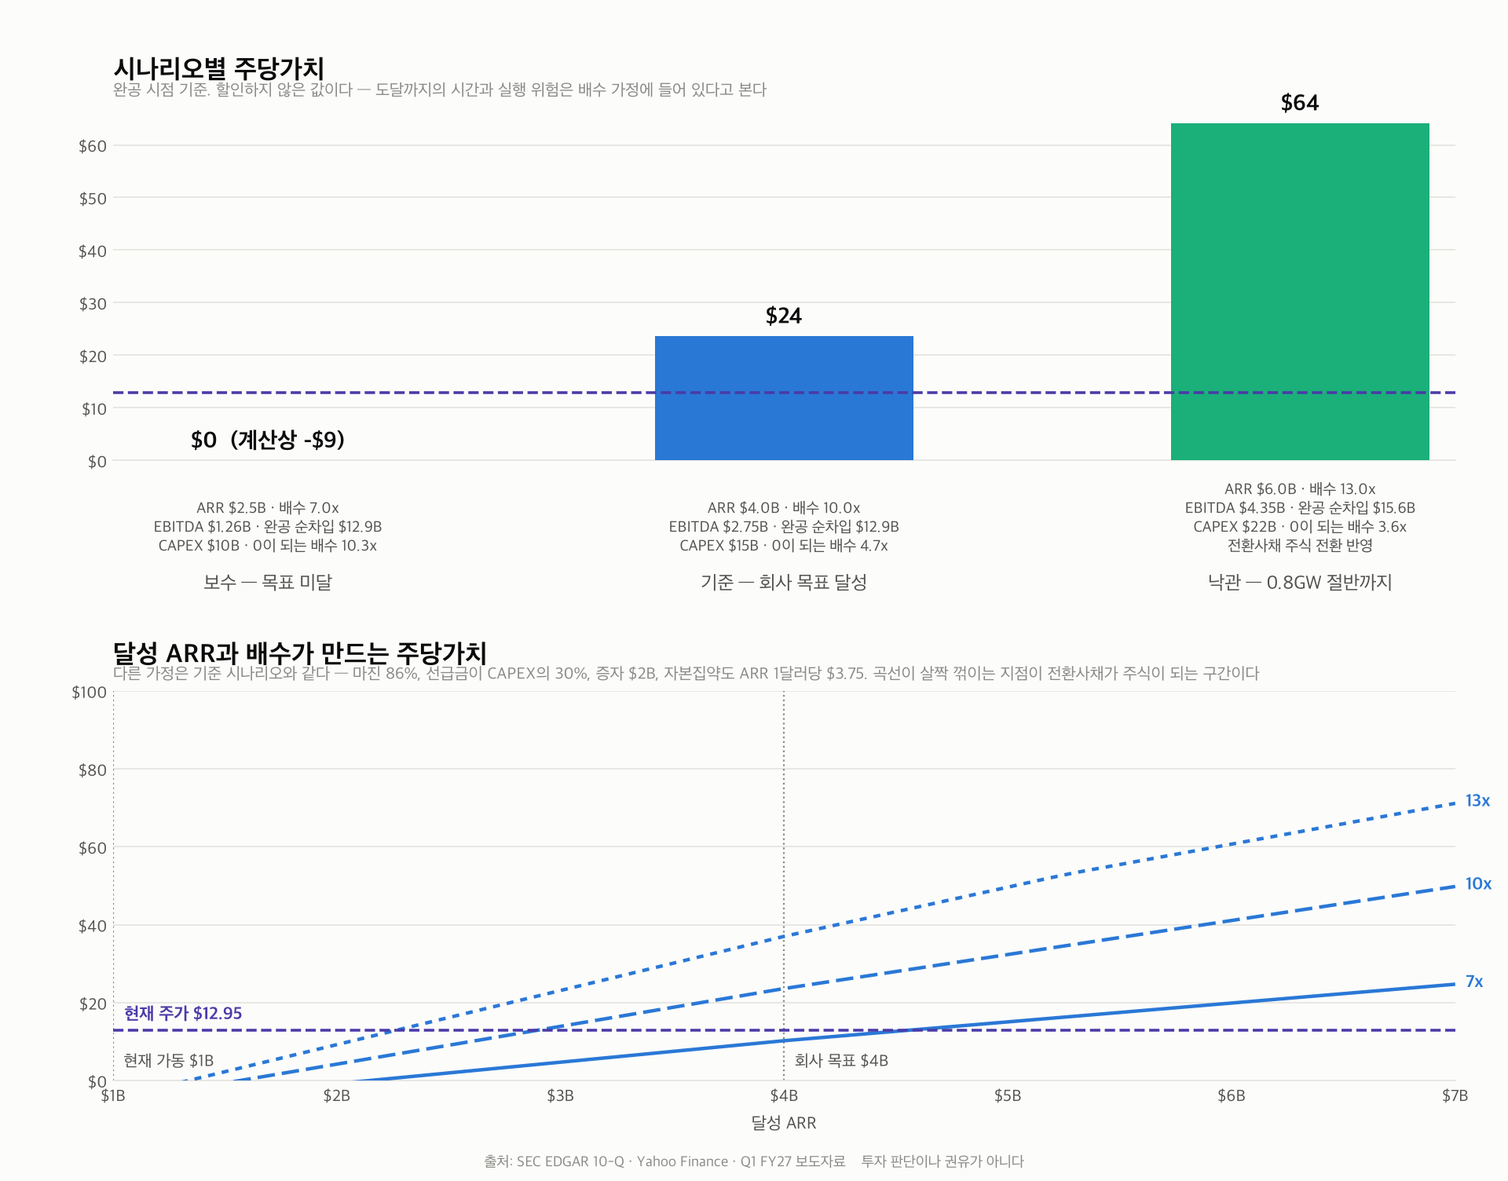
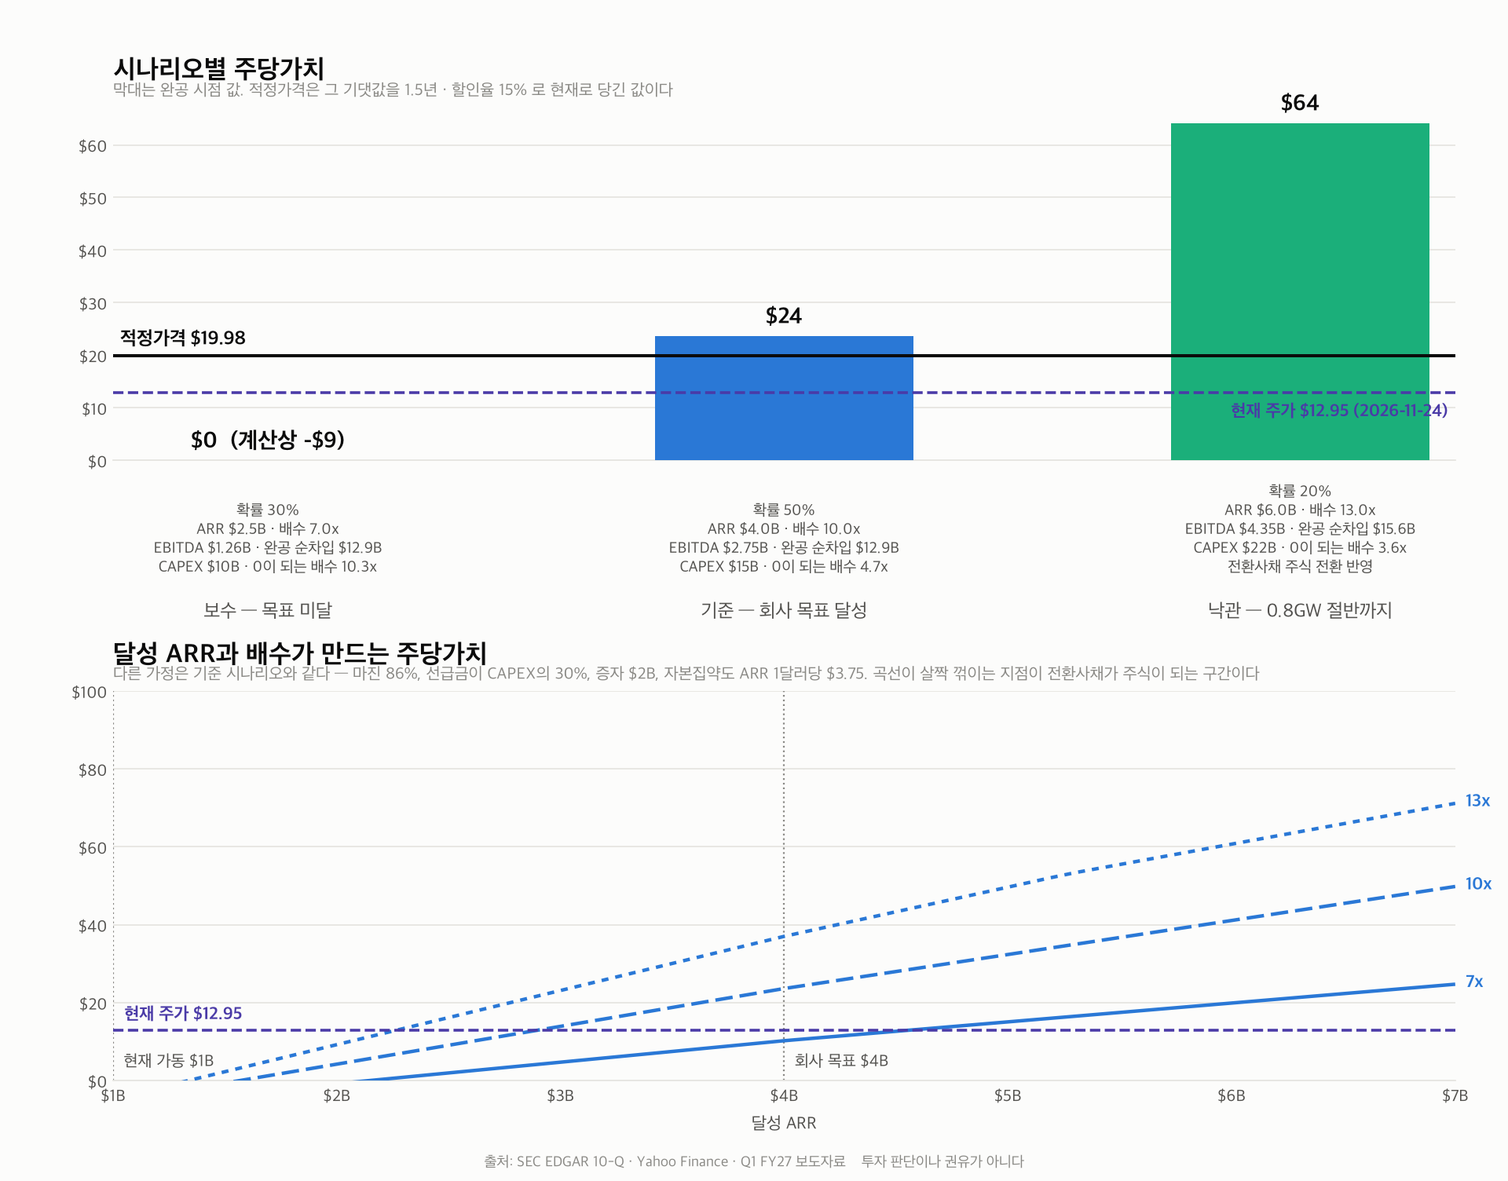
적정가격을 단일 숫자로 낸다 — 확률가중 기댓값의 현재가치
범위만 내놓으면 "그래서 얼마냐"에 답하지 못한다. 각 시나리오에 확률을 붙여
기댓값을 내고, 완공까지 1.5년을 할인율 15%로 당긴다.

  적정가격 $19.98 · 현재 주가 $12.95 (+54%)

확률은 공시에서 끌어낼 수 없는 가장 주관적인 입력이라, 현재 주가가 함의하는
'목표 미달' 확률(55%)을 항상 나란히 계산해 내 가정(30%)과 비교할 수 있게
했다. 두 숫자의 차이가 곧 괴리의 전부다.

diff --git a/docs/index.html b/docs/index.html
@@ -42,12 +42,12 @@
 <div class="wrap">
   <h1>IREN 매출 구조와 적정가격</h1>
   <p class="sub">비트코인 채굴에서 AI 데이터센터로 옮겨 가는 회사를, 공시된 숫자로만 뜯어본다.</p>
-  <p class="stamp">2026-11-25 11:50 UTC · 출처 SEC EDGAR · Yahoo Finance ·
+  <p class="stamp">2026-11-25 12:28 UTC · 출처 SEC EDGAR · Yahoo Finance ·
      <a href="https://github.com/gwonyongjin94-ui/IREN-Revenue-structure">저장소</a></p>
 
-  <div class="cards"><div class="card"><div class="k">주가</div><div class="v">$12.95</div><div class="n">2026-11-24</div></div><div class="card"><div class="k">시가총액</div><div class="v">$5.50B</div><div class="n">424M주</div></div><div class="card"><div class="k">EV</div><div class="v">$9.9B</div><div class="n">순차입 $4.4B 포함</div></div><div class="card"><div class="k">FY27Q1 매출</div><div class="v">$228M</div><div class="n">AI 클라우드 88%</div></div><div class="card"><div class="k">수주잔고</div><div class="v">$20.3B</div><div class="n">2026-09-30</div></div><div class="card"><div class="k">가동 ARR</div><div class="v">약 $1B</div><div class="n">목표 $4B</div></div><div class="card"><div class="k">EV / 목표 ARR</div><div class="v">2.5x</div><div class="n">목표 달성을 전제한 값</div></div><div class="card"><div class="k">남은 CAPEX</div><div class="v">$15B</div><div class="n">미확보 $6B</div></div><div class="card"><div class="k">주당가치 범위</div><div class="v">$0 ~ $64</div><div class="n">중앙 $24</div></div></div>
+  <div class="cards"><div class="card"><div class="k">주가</div><div class="v">$12.95</div><div class="n">2026-11-24</div></div><div class="card"><div class="k">시가총액</div><div class="v">$5.50B</div><div class="n">424M주</div></div><div class="card"><div class="k">EV</div><div class="v">$9.9B</div><div class="n">순차입 $4.4B 포함</div></div><div class="card"><div class="k">FY27Q1 매출</div><div class="v">$228M</div><div class="n">AI 클라우드 88%</div></div><div class="card"><div class="k">수주잔고</div><div class="v">$20.3B</div><div class="n">2026-09-30</div></div><div class="card"><div class="k">가동 ARR</div><div class="v">약 $1B</div><div class="n">목표 $4B</div></div><div class="card"><div class="k">EV / 목표 ARR</div><div class="v">2.5x</div><div class="n">목표 달성을 전제한 값</div></div><div class="card"><div class="k">남은 CAPEX</div><div class="v">$15B</div><div class="n">미확보 $6B</div></div><div class="card"><div class="k">적정가격</div><div class="v">$19.98</div><div class="n">현재가 대비 +54% · 범위 $0~$64</div></div></div>
 
-  <section><h2>매출 구성의 교체</h2><p>두 분기 만에 채굴이 사라지고 AI 클라우드가 매출의 88%가 됐다. 아래 패널의 비트코인 가격과 비교하면, 채굴 매출 감소분의 대부분은 가격이 아니라 스스로 전력을 돌린 결과다.</p><img src="assets/segments.png" alt="매출 구성의 교체" loading="lazy"></section><section><h2>수주잔고 $20.3B 의 구성</h2><p>잔고의 60%는 아직 개시되지 않은 임대 계약이다. 계약은 됐지만 데이터센터를 지어야 매출이 된다.</p><img src="assets/backlog.png" alt="수주잔고 $20.3B 의 구성" loading="lazy"></section><section><h2>ARR = MW(IT) x MW당 단가</h2><p>회사 목표가 함의하는 단가와 실제 체결 단가가 60% 수준으로 어긋난다. ARR 추정의 가장 큰 미지수다.</p><img src="assets/arr_model.png" alt="ARR = MW(IT) x MW당 단가" loading="lazy"></section><section><h2>자금 — $15B 중 $6B 이 열려 있다</h2><p>차입 $10B 중 3분의 2가 전환사채다. 주가가 전환가에서 멀어지면 그냥 빚으로 남는다.</p><img src="assets/funding.png" alt="자금 — $15B 중 $6B 이 열려 있다" loading="lazy"></section><section><h2>적정가격 — 단일 숫자가 아니라 범위</h2><p>결과는 달성 ARR과 배수에 거의 전적으로 달려 있다. 레버리지가 높아 가정이 조금만 움직여도 주당가치가 크게 흔들린다.</p><img src="assets/valuation.png" alt="적정가격 — 단일 숫자가 아니라 범위" loading="lazy"></section>
+  <section><h2>매출 구성의 교체</h2><p>두 분기 만에 채굴이 사라지고 AI 클라우드가 매출의 88%가 됐다. 아래 패널의 비트코인 가격과 비교하면, 채굴 매출 감소분의 대부분은 가격이 아니라 스스로 전력을 돌린 결과다.</p><img src="assets/segments.png" alt="매출 구성의 교체" loading="lazy"></section><section><h2>수주잔고 $20.3B 의 구성</h2><p>잔고의 60%는 아직 개시되지 않은 임대 계약이다. 계약은 됐지만 데이터센터를 지어야 매출이 된다.</p><img src="assets/backlog.png" alt="수주잔고 $20.3B 의 구성" loading="lazy"></section><section><h2>ARR = MW(IT) x MW당 단가</h2><p>회사 목표가 함의하는 단가와 실제 체결 단가가 60% 수준으로 어긋난다. ARR 추정의 가장 큰 미지수다.</p><img src="assets/arr_model.png" alt="ARR = MW(IT) x MW당 단가" loading="lazy"></section><section><h2>자금 — $15B 중 $6B 이 열려 있다</h2><p>차입 $10B 중 3분의 2가 전환사채다. 주가가 전환가에서 멀어지면 그냥 빚으로 남는다.</p><img src="assets/funding.png" alt="자금 — $15B 중 $6B 이 열려 있다" loading="lazy"></section><section><h2>적정가격</h2><p>세 결말에 확률을 붙여 기댓값을 내고, 완공까지 1.5년을 15%로 할인한 값이다. 레버리지가 높아 가정이 조금만 움직여도 결과가 크게 흔들린다.</p><img src="assets/valuation.png" alt="적정가격" loading="lazy"></section>
 
   <footer>
     모든 수치는 SEC 공시와 공개 시세에서 가져온다. 배수·마진·조달 구성은 가정이며

diff --git a/valuation.py b/valuation.py
@@ -52,6 +52,15 @@ OPEX_SLOPE = 0.06   # 목표 ARR을 넘는 매출 1달러당 추가 현금비용
 
 VEST_SHARES = 36.8e6   # 스톡옵션 + RSU. 전환사채는 따로 다룬다
 
+# 시나리오 값은 전부 '완공 시점' 값이다. 거기까지 가는 데 걸리는 시간을 현재로
+# 당겨와야 오늘의 적정가격이 된다. 회사는 $4B ARR 달성을 2027년 1~2월로 제시
+# 했지만 그건 0.3GW 프로그램 얘기고, 그 매출이 온전히 한 해를 돌아 실적으로
+# 확인되는 시점은 FY2028 중반이다. 그래서 1.5년으로 둔다.
+HORIZON_YEARS = 1.5
+# 할인율은 자기자본 요구수익률이다. 이 회사의 베타와 레버리지를 감안한 값이고,
+# 가정이다 — 15%p 를 12%로 바꾸면 적정가격이 약 4% 움직인다.
+DISCOUNT_RATE = 0.15
+
 
 @dataclass(frozen=True)
 class Scenario:
@@ -62,6 +71,7 @@ class Scenario:
     capex: float          # 여기까지 가는 데 더 쓰는 CAPEX
     prepay_share: float   # 그 CAPEX 중 고객 선급금이 덮는 비율
     equity_raise: float   # 증자 금액
+    prob: float           # 이 결말이 일어날 확률
     color: str
     note: str
 
@@ -69,18 +79,18 @@ class Scenario:
 def scenarios() -> list[Scenario]:
     """세 가지 결말. 가정은 전부 여기 적혀 있다."""
     return [
-        Scenario("보수 — 목표 미달", 2.5e9, 0.78, 7.0, 10.0e9, 0.15, 0.0,
+        Scenario("보수 — 목표 미달", 2.5e9, 0.78, 7.0, 10.0e9, 0.15, 0.0, 0.30,
                  idata.DEBT_COLOR,
                  "$15B 중 $10B 을 쓴 채로 자금이 끊겨 ARR은 $2.5B 에서 멈춘다.\n"
                  "마진은 코로케이션 비중이 늘며 하락, 부족분은 전부 차입"),
         Scenario("기준 — 회사 목표 달성", disc.ARR_TARGET.value,
                  disc.AI_CLOUD_GROSS_MARGIN.value, 10.0,
-                 disc.CAPEX_REMAINING_FY27.value, 0.30, 2.0e9,
+                 disc.CAPEX_REMAINING_FY27.value, 0.30, 2.0e9, 0.50,
                  idata.CLOUD_COLOR,
                  "공시한 $4B ARR 을 공시한 $15B CAPEX 로 달성.\n"
                  "현재 마진 유지, 부족분 중 $2B 는 증자"),
         Scenario("낙관 — 0.8GW 절반까지", 6.0e9,
-                 disc.AI_CLOUD_GROSS_MARGIN.value, 13.0, 22.0e9, 0.40, 2.0e9,
+                 disc.AI_CLOUD_GROSS_MARGIN.value, 13.0, 22.0e9, 0.40, 2.0e9, 0.20,
                  idata.LEASE_COLOR,
                  "CY2027 목표 용량의 절반이 추가로 계약·가동.\n"
                  "자본집약도는 목표 구간과 같게 두고 배수만 프리미엄"),
@@ -127,6 +137,46 @@ def evaluate(s: Scenario, net_debt_now: float, shares_now: float,
     return Result(s, ebitda, net_debt, enterprise, equity, shares, per_share, dilute)
 
 
+def discount(value: float) -> float:
+    """완공 시점 값을 오늘로 당긴다."""
+    return value / (1 + DISCOUNT_RATE) ** HORIZON_YEARS
+
+
+def fair_value(results: list[Result]) -> float:
+    """확률가중 기대 주당가치의 현재가치 — 이 저장소가 내는 단일 적정가격.
+
+    범위를 내놓고 끝내면 "그래서 얼마냐"에 답하지 못한다. 그래서 각 결말에
+    확률을 붙여 기댓값을 내고, 완공까지의 시간으로 할인한다. 확률은 가정이고
+    가장 주관적인 입력이다. 그래서 아래 implied_downside()로 '시장은 이걸
+    몇 퍼센트로 보고 있나'를 같이 계산해, 내 확률이 시장과 얼마나 다른지
+    드러낸다. 자기자본이 음수로 나오는 결말은 0으로 자른다 — 주주는 유한책임
+    이라 마이너스까지 책임지지 않는다.
+    """
+    total = sum(r.scenario.prob for r in results)
+    expected = sum(max(r.per_share, 0) * r.scenario.prob for r in results) / total
+    return discount(expected)
+
+
+def implied_downside(results: list[Result], price: float) -> float:
+    """현재 주가가 함의하는 '목표 미달' 확률.
+
+    보수 시나리오의 확률만 움직이고, 나머지 둘의 상대 비중은 그대로 둔다.
+    그러면 미지수가 하나라 바로 풀린다.
+    """
+    downside = results[0]
+    rest = results[1:]
+    weight = sum(r.scenario.prob for r in rest)
+    if weight <= 0:
+        return float("nan")
+    upside = sum(max(r.per_share, 0) * r.scenario.prob for r in rest) / weight
+    if upside <= 0:
+        return float("nan")
+    # price = (1-p) x upside 를 할인한 값. downside 의 주당가치는 0 이므로 빠진다
+    share_of_upside = price / discount(upside)
+    return max(0.0, min(1.0, 1 - share_of_upside)) if max(downside.per_share, 0) == 0 \
+        else float("nan")
+
+
 def per_share_curve(arrs, multiple, base: Scenario, net_debt_now, shares_now,
                     price, converts):
     out = []
@@ -135,7 +185,8 @@ def per_share_curve(arrs, multiple, base: Scenario, net_debt_now, shares_now,
         # CAPEX)를 기준 시나리오 값으로 고정해, 적게 벌면 적게 썼다고 본다.
         capex = base.capex * arr / base.arr
         s = Scenario(base.name, arr, base.margin, multiple, capex,
-                     base.prepay_share, base.equity_raise, base.color, "")
+                     base.prepay_share, base.equity_raise, base.prob,
+                     base.color, "")
         out.append(evaluate(s, net_debt_now, shares_now, price, converts).per_share)
     return out
 
@@ -160,28 +211,37 @@ def draw(results, price, price_date, net_debt_now, shares_now, converts,
                      textcoords="offset points", ha="center", fontsize=13,
                      fontweight="bold", color=idata.INK_PRIMARY)
         top.annotate(idata.tex_safe(
+            f"확률 {r.scenario.prob*100:,.0f}%\n"
             f"ARR ${r.scenario.arr/B:,.1f}B · 배수 {r.scenario.multiple:,.1f}x\n"
             f"EBITDA ${r.ebitda/B:,.2f}B · 완공 순차입 ${r.net_debt/B:,.1f}B\n"
             f"CAPEX ${r.scenario.capex/B:,.0f}B · 0이 되는 배수 "
             f"{r.net_debt/r.ebitda:,.1f}x"
             + ("\n전환사채 주식 전환 반영" if r.converts_dilute else "")),
-            (x, 0), xytext=(0, -52), textcoords="offset points", ha="center",
+            (x, 0), xytext=(0, -64), textcoords="offset points", ha="center",
             fontsize=9, color=idata.INK_SECONDARY, annotation_clip=False)
+
+    fair = fair_value(results)
+    top.axhline(fair, color=idata.INK_PRIMARY, linewidth=1.8, zorder=4)
+    top.annotate(idata.tex_safe(f"적정가격 ${fair:,.2f}"), (0.0, fair),
+                 xycoords=("axes fraction", "data"), xytext=(4, 6),
+                 textcoords="offset points", fontsize=11,
+                 color=idata.INK_PRIMARY, fontweight="bold")
 
     top.axhline(price, color=idata.PRICE_COLOR, linewidth=1.6, linestyle="--", zorder=4)
     top.annotate(idata.tex_safe(f"현재 주가 ${price:,.2f} ({price_date})"),
-                 (len(results) - 0.45, price), xytext=(6, 4),
-                 textcoords="offset points", fontsize=10, color=idata.PRICE_COLOR,
-                 fontweight="bold")
+                 (1.0, price), xycoords=("axes fraction", "data"),
+                 xytext=(-4, -14), textcoords="offset points", ha="right",
+                 fontsize=10, color=idata.PRICE_COLOR, fontweight="bold")
 
     top.set_xticks(xs)
     top.set_xticklabels([r.scenario.name for r in results], fontsize=11)
-    top.tick_params(axis="x", pad=64)
+    top.tick_params(axis="x", pad=80)
     top.yaxis.set_major_formatter(FuncFormatter(lambda v, _: f"${v:,.0f}"))
     top.set_title("시나리오별 주당가치", fontsize=15, color=idata.INK_PRIMARY,
                   fontweight="bold", loc="left", pad=16)
-    top.annotate("완공 시점 기준. 할인하지 않은 값이다 — 도달까지의 시간과 "
-                 "실행 위험은 배수 가정에 들어 있다고 본다",
+    top.annotate(idata.tex_safe(
+        f"막대는 완공 시점 값. 적정가격은 그 기댓값을 {HORIZON_YEARS:,.1f}년 "
+        f"· 할인율 {DISCOUNT_RATE*100:,.0f}% 로 현재로 당긴 값이다"),
                  (0.0, 1.03), xycoords="axes fraction", fontsize=9.5,
                  color=idata.INK_MUTED)
 
@@ -297,9 +357,20 @@ def main():
               + ("  [전환사채 전환 반영]" if r.converts_dilute else ""))
 
     band = sorted(max(r.per_share, 0) for r in results)
+    fair = fair_value(results)
+    implied = implied_downside(results, price)
+    expected = fair * (1 + DISCOUNT_RATE) ** HORIZON_YEARS
     print(f"\n주당가치 범위 ${band[0]:,.0f} ~ ${band[-1]:,.0f} "
-          f"(중앙 ${band[len(band)//2]:,.0f}) · 현재 ${price:,.2f}")
-    print("투자 판단이나 권유가 아니다.")
+          f"(중앙 ${band[len(band)//2]:,.0f})")
+    print(f"확률가중 기대값 (완공 시점)  ${expected:,.2f}")
+    print(f"  할인 {DISCOUNT_RATE*100:,.0f}% x {HORIZON_YEARS:,.1f}년")
+    print(f"적정가격 (현재가치)          ${fair:,.2f}")
+    print(f"현재 주가                    ${price:,.2f}  ({fair/price - 1:+.0%})")
+    if implied == implied:   # NaN 아님
+        print(f"\n현재 주가가 함의하는 '목표 미달' 확률  {implied*100:,.0f}%")
+        print(f"  이 모델이 쓴 확률                     "
+              f"{results[0].scenario.prob*100:,.0f}%")
+    print("\n투자 판단이나 권유가 아니다.")
 
 
 if __name__ == "__main__":

diff --git a/build_site.py b/build_site.py
@@ -37,9 +37,9 @@ CHARTS = [
     ("funding.png", "자금 — $15B 중 $6B 이 열려 있다",
      "차입 $10B 중 3분의 2가 전환사채다. 주가가 전환가에서 멀어지면 "
      "그냥 빚으로 남는다."),
-    ("valuation.png", "적정가격 — 단일 숫자가 아니라 범위",
-     "결과는 달성 ARR과 배수에 거의 전적으로 달려 있다. "
-     "레버리지가 높아 가정이 조금만 움직여도 주당가치가 크게 흔들린다."),
+    ("valuation.png", "적정가격",
+     "세 결말에 확률을 붙여 기댓값을 내고, 완공까지 1.5년을 15%로 할인한 값이다. "
+     "레버리지가 높아 가정이 조금만 움직여도 결과가 크게 흔들린다."),
 ]
 
 PAGE = """<!doctype html>
@@ -122,6 +122,7 @@ def build(repo: str, refresh: bool = False) -> str:
     results = [val.evaluate(s, bs["net_debt"], shares, price, converts)
                for s in val.scenarios()]
     band = sorted(max(r.per_share, 0) for r in results)
+    fair = val.fair_value(results)
 
     q = revenue[-1]
     ev = price * shares + bs["net_debt"]
@@ -138,8 +139,9 @@ def build(repo: str, refresh: bool = False) -> str:
              "목표 달성을 전제한 값"),
         card("남은 CAPEX", f"${disc.CAPEX_REMAINING_FY27.value/B:,.0f}B",
              f"미확보 ${disc.FUNDING_TARGET.value/B:,.0f}B"),
-        card("주당가치 범위", f"${band[0]:,.0f} ~ ${band[-1]:,.0f}",
-             f"중앙 ${band[len(band)//2]:,.0f}"),
+        card("적정가격", f"${fair:,.2f}",
+             f"현재가 대비 {fair/price - 1:+.0%} · 범위 "
+             f"${band[0]:,.0f}~${band[-1]:,.0f}"),
     ])
 
     sections = "".join(

diff --git a/snapshot.py b/snapshot.py
@@ -36,6 +36,8 @@ def build(refresh: bool = False) -> str:
     results = [val.evaluate(s, bs["net_debt"], shares, price, converts)
                for s in val.scenarios()]
     band = sorted(max(r.per_share, 0) for r in results)
+    fair = val.fair_value(results)
+    implied = val.implied_downside(results, price)
 
     q = revenue[-1]
     ttm = sum(r.total for r in revenue[-4:])
@@ -85,8 +87,11 @@ def build(refresh: bool = False) -> str:
         f"| EV / 수주잔고 | {ev/bl.total:,.2f}x |",
         f"| 평균 전환가 | ${conv_principal/conv_shares:,.0f} "
         f"(희석 {conv_shares/M:,.0f}M주) |",
+        f"| **적정가격** | **${fair:,.2f}** ({fair/price - 1:+.0%}) |",
         f"| 주당가치 범위 | ${band[0]:,.0f} ~ ${band[-1]:,.0f} "
-        f"(중앙 ${band[len(band)//2]:,.0f}) |",
+        f"(확률 {' / '.join(f'{r.scenario.prob*100:,.0f}%' for r in results)}) |",
+        f"| 주가가 함의하는 '목표 미달' 확률 | {implied*100:,.0f}% |"
+        if implied == implied else "",
         "",
         "숫자의 근거와 한계는 [README](README.md) 참조. 투자 판단이나 권유가 아니다.",
         "",

diff --git a/README.md b/README.md
@@ -221,10 +221,30 @@ EBITDA       = 달성 ARR x 매출총이익률 − 현금 영업비용
 현금 영업비용은 Q1 FY27 실적 $118M 에 회사가 준 다음 분기 증가폭 가이던스
 ($50~60M)를 더해 연율화한 **약 $0.69B** 을 $4B ARR 구간의 기준으로 쓴다.
 
+### 결론부터
+
+| | |
+|---|---:|
+| **적정가격** | **$19.98** |
+| 현재 주가 (2026-11-24) | $12.95 |
+| 차이 | **+54%** |
+
+세 결말에 확률(30% / 50% / 20%)을 붙여 기댓값 $24.64 를 내고, 완공까지
+**1.5년**을 **할인율 15%** 로 당긴 값이다. 1.5년은 $4B ARR이 한 해를 온전히
+돌아 실적으로 확인되는 시점(FY2028 중반)까지의 거리다.
+
+단, 이 숫자 하나만 들고 가면 안 된다. 세 결말의 주당가치가 **$0 / $24 / $64**
+로 벌어져 있어서, 적정가격 $19.98 은 "이 근처에서 거래될 값"이 아니라
+**서로 다른 결말들의 평균**이다. 실제 결과는 거의 확실히 저 셋 중 하나에
+가깝지, $20 근처가 아니다. 확률 가정이 결과를 지배한다는 뜻이기도 하다 —
+보수 확률만 30%에서 50%로 올리면(나머지 둘의 비중은 그대로) 적정가격은
+$14.3 으로 내려간다.
+
 ### 시나리오
 
 | | 보수 | 기준 | 낙관 |
 |---|---:|---:|---:|
+| **확률** | **30%** | **50%** | **20%** |
 | 달성 ARR | $2.5B | $4.0B | $6.0B |
 | 매출총이익률 | 78% | 86% | 86% |
 | 추가 CAPEX | $10B | $15B | $22B |
@@ -268,6 +288,9 @@ EBITDA       = 달성 ARR x 매출총이익률 − 현금 영업비용
   같아진다
 - 배수를 10x 로 고정하면, 현재가는 달성 ARR **약 $2.9B** 을 함의한다 —
   회사 목표 $4B 의 73%
+- 확률 쪽으로 풀면, 현재가는 **'목표 미달' 확률 55%** 를 함의한다. 이 저장소가
+  쓴 30%보다 25%p 높다. 적정가격 $19.98 과 현재가 $12.95 의 차이는 전부
+  이 25%p 에서 나온다
 
 바꿔 말하면 시장은 **$4B ARR 달성을 거의 믿지 않거나, 믿더라도 $6B 조달
 과정의 희석을 크게 보고 있다**.
@@ -281,8 +304,10 @@ EBITDA       = 달성 ARR x 매출총이익률 − 현금 영업비용
 
 ## 이 저장소가 하지 않는 것
 
-- **투자 판단이나 권유가 아니다.** 배수·마진·조달 구성은 전부 가정이고,
-  그 가정이 결과를 지배한다
+- **투자 판단이나 권유가 아니다.** 배수·마진·조달 구성·확률은 전부 가정이고,
+  그 가정이 결과를 지배한다. 특히 시나리오 확률(30/50/20)은 공시에서 끌어낼 수
+  없는, 이 저장소에서 가장 주관적인 입력이다. 그래서 현재 주가가 함의하는
+  확률을 항상 나란히 찍는다
 - **자산가치 하한을 반영하지 않는다.** 유형자산이 $12.3B 인데 보수 시나리오의
   EV는 $8.8B 이다. 실제로는 자산 매각가치가 바닥을 만들 수 있지만, 중고 GPU와
   개조된 채굴장의 회수가치를 공시에서 읽을 방법이 없어 모델에 넣지 않았다

diff --git a/SNAPSHOT.md b/SNAPSHOT.md
@@ -1,6 +1,6 @@
 # 스냅샷
 
-자동 생성 — 2026-11-25 11:50 UTC
+자동 생성 — 2026-11-25 12:28 UTC
 
 ## 매출 (FY27Q1, 2026-09-30)
 
@@ -47,6 +47,8 @@
 | EV / 목표 ARR | 2.5x |
 | EV / 수주잔고 | 0.49x |
 | 평균 전환가 | $53 (희석 127M주) |
-| 주당가치 범위 | $0 ~ $64 (중앙 $24) |
+| **적정가격** | **$19.98** (+54%) |
+| 주당가치 범위 | $0 ~ $64 (확률 30% / 50% / 20%) |
+| 주가가 함의하는 '목표 미달' 확률 | 55% |
 
 숫자의 근거와 한계는 [README](README.md) 참조. 투자 판단이나 권유가 아니다.
